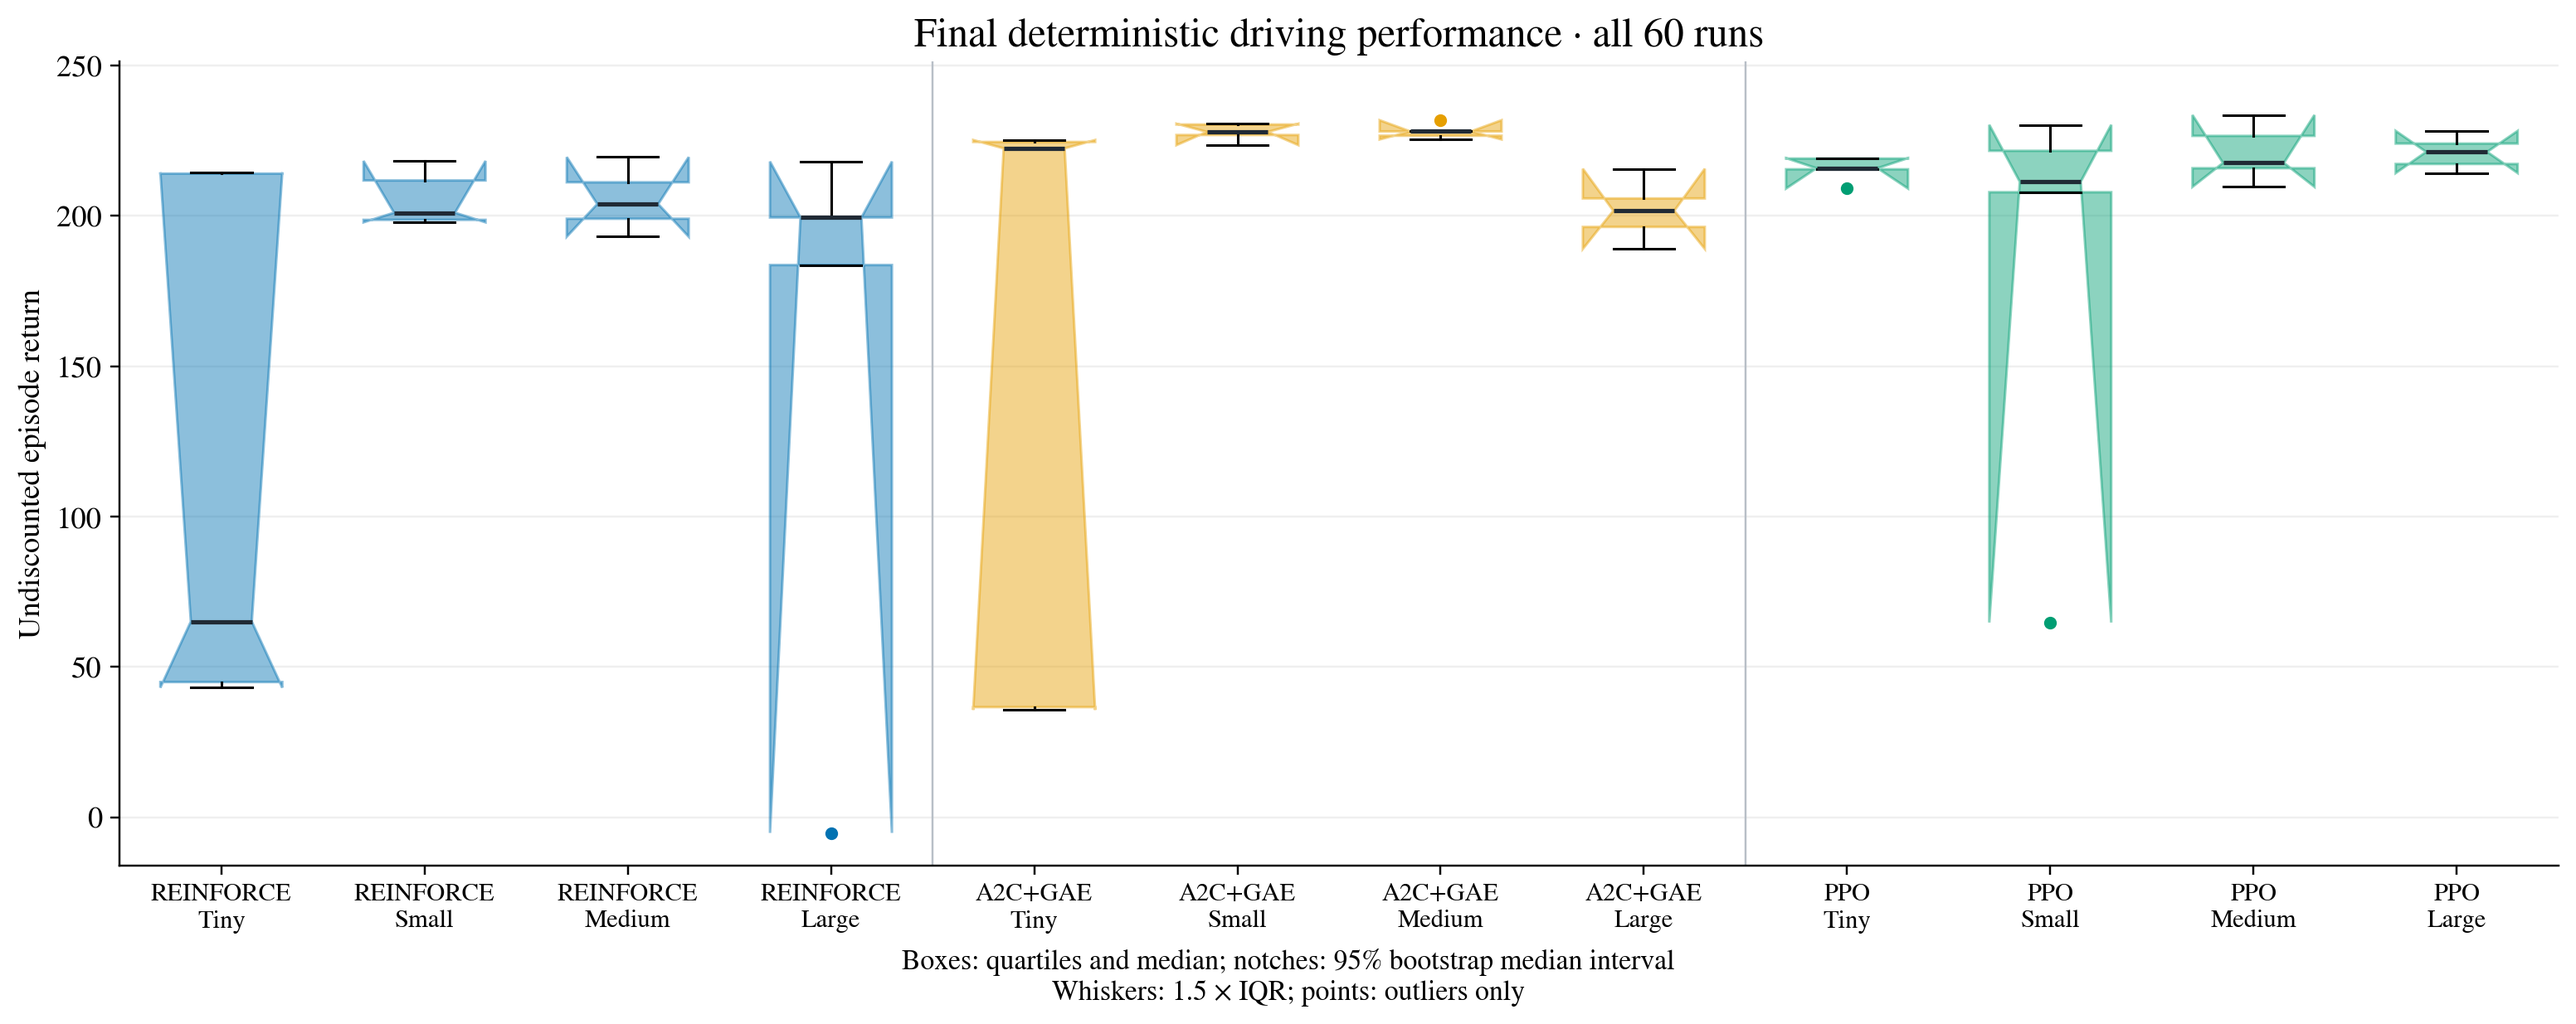
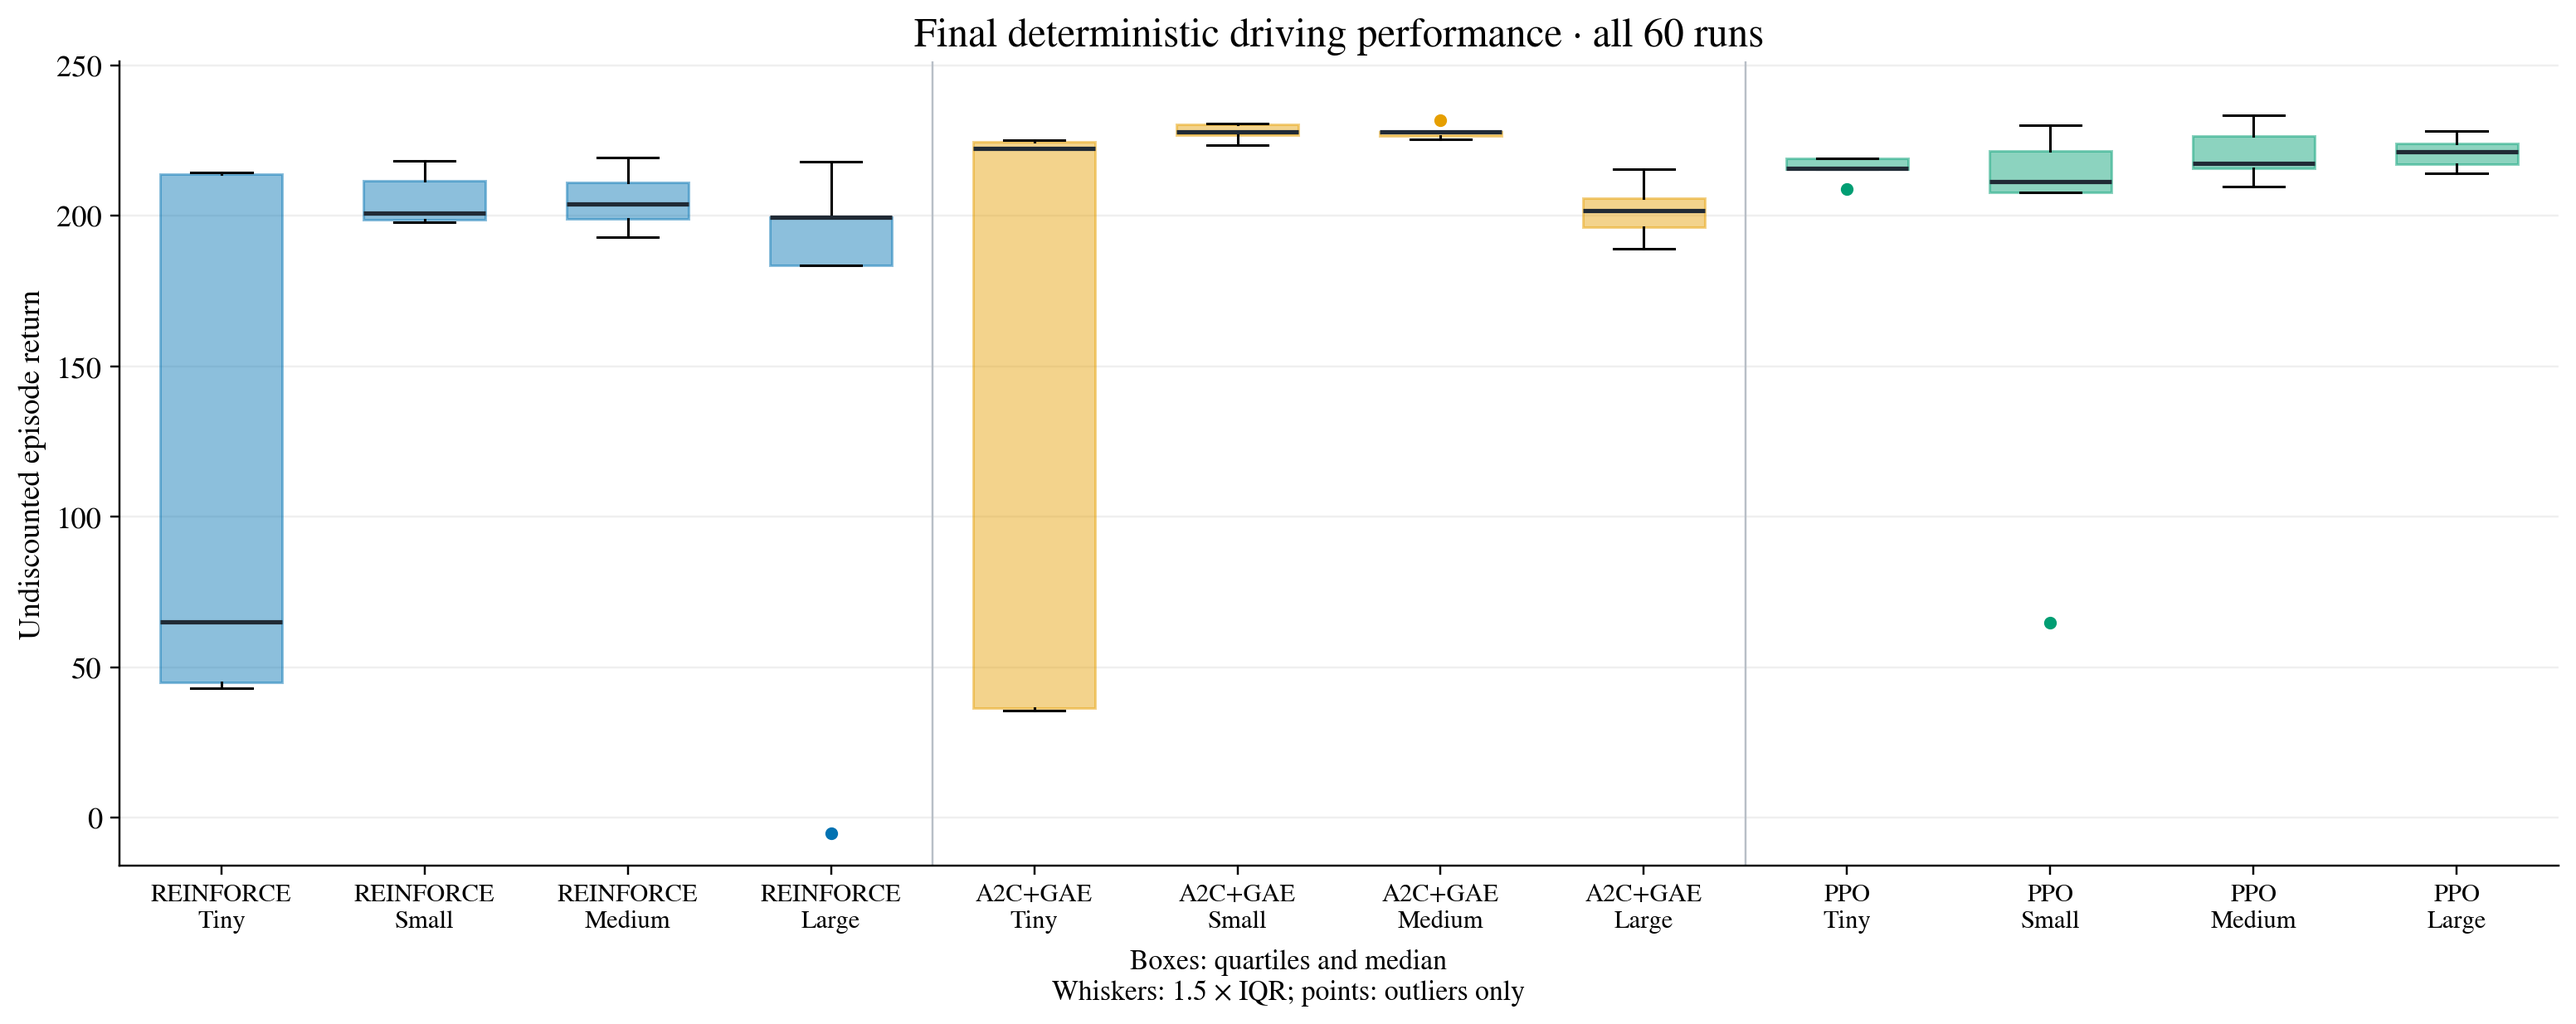
docs: remove final performance boxplot notches [ai]

diff --git a/experiments/presentation_figures.py b/experiments/presentation_figures.py
@@ -2,7 +2,7 @@
 
 import argparse
 import json
-from itertools import pairwise, product
+from itertools import pairwise
 from pathlib import Path
 
 import matplotlib
@@ -148,19 +148,9 @@ def result_figures():
             timing.append(durations.mean(axis=0))
 
     figure, axis = plt.subplots(figsize=(14, 5.5), layout="constrained")
-    # Enumerate every root resample, matching the five-root reporting protocol.
-    median_intervals = [
-        np.quantile(
-            [np.median(sample) for sample in product(values, repeat=len(values))],
-            [0.025, 0.975],
-        )
-        for values in finals
-    ]
     boxes = axis.boxplot(
         finals,
         patch_artist=True,
-        notch=True,
-        conf_intervals=median_intervals,
         showfliers=True,
         widths=0.6,
     )
@@ -188,8 +178,7 @@ def result_figures():
     for x in (4.5, 8.5):
         axis.axvline(x, color="#B8BFC7", linewidth=0.8)
     figure.supxlabel(
-        "Boxes: quartiles and median; notches: 95% bootstrap median interval\n"
-        "Whiskers: 1.5 × IQR; points: outliers only",
+        "Boxes: quartiles and median\n" "Whiskers: 1.5 × IQR; points: outliers only",
         fontsize=11,
     )
     save(figure, "final_returns")

diff --git a/docs/DIARY.md b/docs/DIARY.md
@@ -2490,3 +2490,20 @@ in a compact two-column table, with more space for the landscape chart.
 **Files**: `README.md`, `docs/DIARY.md`.
 
 **Commit**: `docs: pair README racing view with training returns [ai]`.
+
+
+## 2026-09-16 - Remove the RQ1.1 boxplot notches
+
+**Task**: Use ordinary boxplots for Experiment 1 final driving performance.
+
+**Result**: Removed the notches and their bootstrap calculation, updated the
+figure caption, and regenerated the RQ1.1 image. Kept outlier points and the
+notebook's 1200-pixel display limit.
+
+**Validation**: Visually checked the regenerated plot; Black and diff whitespace
+checks pass. The underlying results and notebook text are unchanged.
+
+**Files**: `experiments/presentation_figures.py`,
+`docs/figures/presentation/final_returns.png`, `docs/DIARY.md`.
+
+**Commit**: `docs: remove final performance boxplot notches [ai]`.
